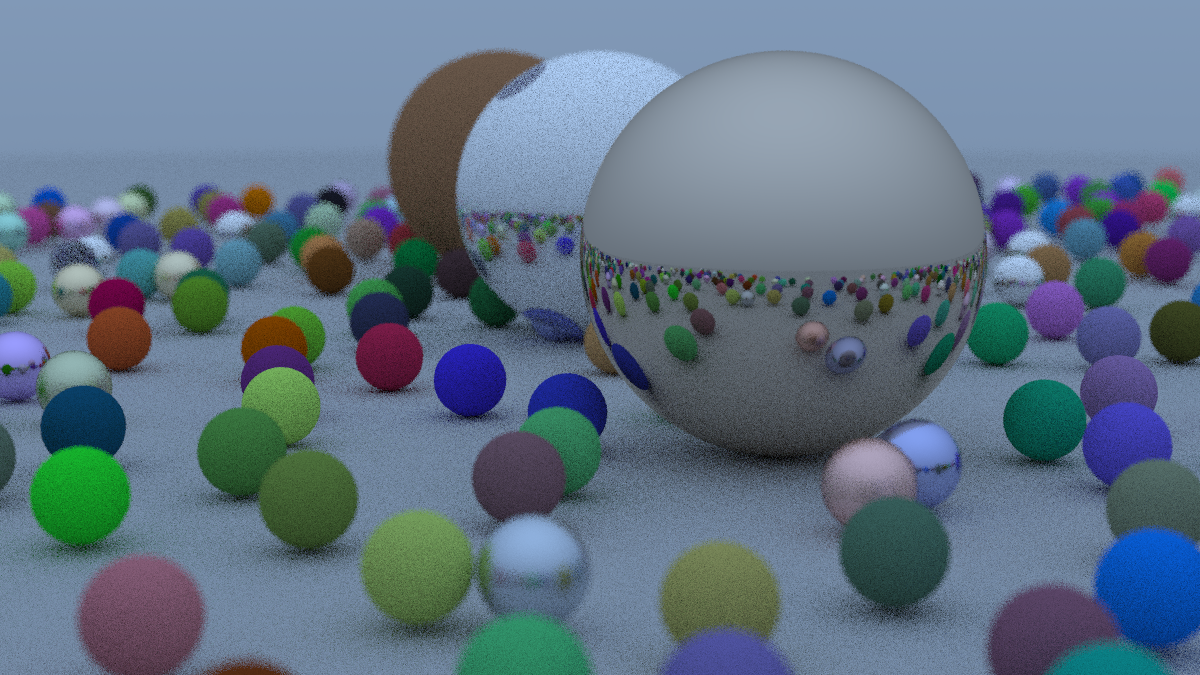
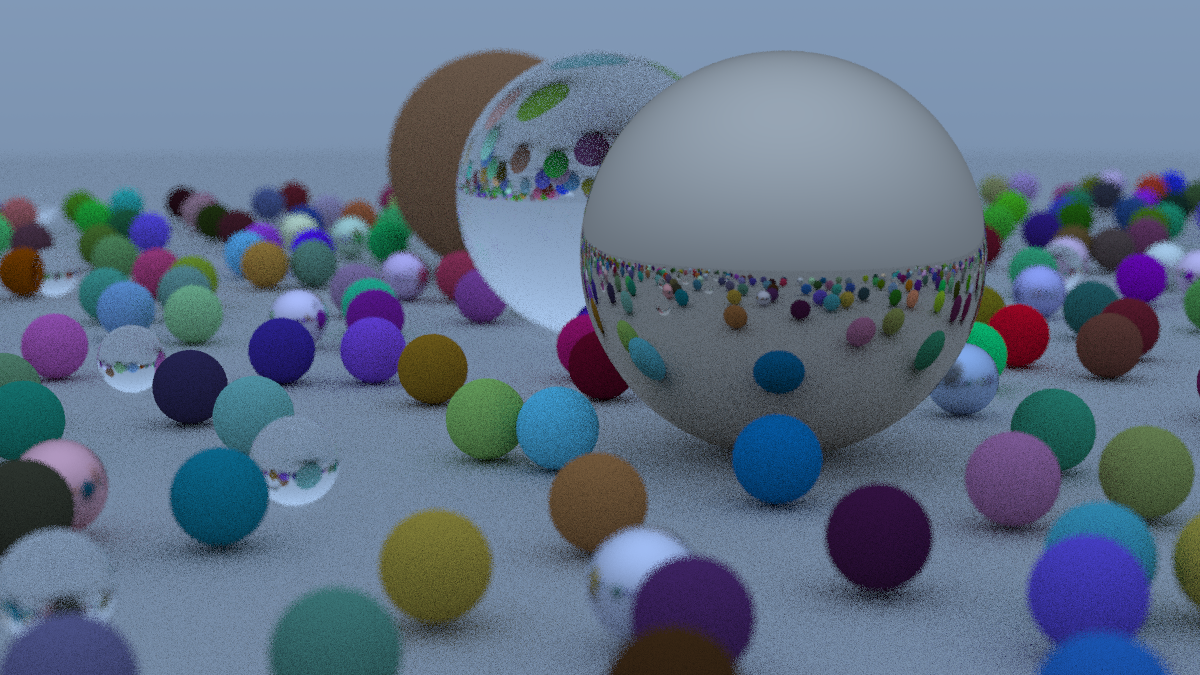
bug fixed, image added

diff --git a/src/main.rs b/src/main.rs
@@ -97,7 +97,7 @@ fn main() {
 
     // World
     let mut world = HittableList::default();
-/*
+
     let material_ground = Rc::new(Lambertian{albedo: Color{r: 0.5, g: 0.5, b: 0.5,}});
     world.add(Box::new(Sphere::new(Point3d::new(0.0, -1000.0, 0.0), 1000.0, material_ground.clone())));
 
@@ -174,8 +174,8 @@ fn main() {
             Sphere::new(Point3d::new(4.0, 1.0, 0.0), 1.0, Rc::new(Metal{albedo: Color{r: 0.7, g: 0.6, b: 0.5}, fuzz: 0.0}))
         )
     );
-*/
 
+/*
     let material_ground = Rc::new(Lambertian{albedo: Color{r: 0.8, g: 0.8, b: 0.0,}});
     let material_center = Rc::new(Lambertian{albedo: Color{r: 0.1, g: 0.2, b: 0.5,}});
     let material_left = Rc::new(Dielectric{refraction_index: 1.5});
@@ -193,7 +193,7 @@ fn main() {
     world.add(Box::new(Sphere::new(Point3d::new(1.0, 0.0, -1.0), 0.5, material_right.clone())));
     
     world.add(Box::new(Sphere::new(Point3d::new(0.0, -100.5, -1.0), 100.0, material_ground.clone())));
-
+*/
     // Camera
     let cv = CameraView {
         vfov: 20.0,

diff --git a/Readme.md b/Readme.md
@@ -1,6 +1,8 @@
 # Description
 Yet another rust implementation of [_Ray Tracing in One Weekend_](https://raytracing.github.io/books/RayTracingInOneWeekend.html). This is the rendered example for depth 50 and 500 samples per pixel:
 ![img](rendered_50md_500ssp.png)
+And the another render run for depth 50 and 10 samples per pixel:
+![img](rendered_50_10.png)
 
 # Todo list
 - [ ] command line parameters for depth, samples per pixel and file name
@@ -16,3 +18,5 @@ Yet another rust implementation of [_Ray Tracing in One Weekend_](https://raytra
 - 03.05.2025 - Image width 1200, max depth 50, sample per pixel 10, ttr - 380s (~ 00:06:20) -  70s Release
 - 03.05.2025 - Image width 1200, max depth 50, sample per pixel 10, ttr - 293s (~ 00:04:53) -  60s Release
 - 03.05.2025 - Image width 1200, max depth 50, sample per pixel 50, ttr - 1800s (~ 00:30:00) - 308s Release
+- 04.05.2025 - Image width 1200, max depth 50, sample per pixel 10, ttr - 224s (~ 00:03:44) - 46s Release
+
